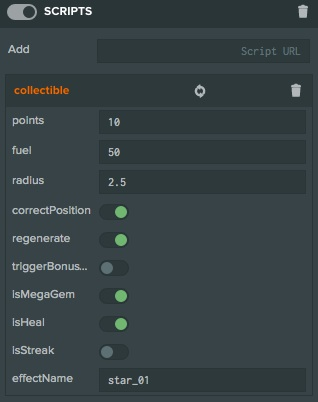
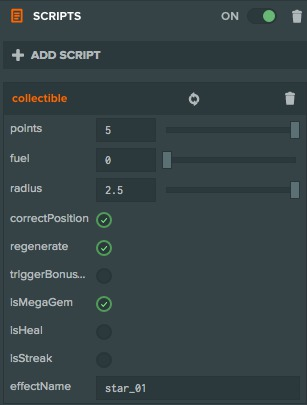
Changes for scripts

diff --git a/content/en/user-manual/packs/components/script.md b/content/en/user-manual/packs/components/script.md
@@ -6,9 +6,15 @@ position: 10
 
 The 'script' component enables an entity to run user-supplied scripts. In this way, the user can write script (using the JavaScript language) that runs when the entity is instantiated and updated on a per-frame basis.
 
-<img src="/images/user-manual/components/component-script.jpg" style="width: 300px" />
+<img src="/images/user-manual/components/component-script.jpg"/>
 
-To assign a script, type its name into the URL box. For example, if you want to create a script called car.js, type car.js into the box and hit ENTER. This will create a script block below. If you click the hyperlinked script name, it will open in the PlayCanvas Code Editor. If you type a name of an existing script, autocomplete should activate and again, just press ENTER to add the script to the component.
+To create a new script, click on the <span class="ui-icon" style="font-size: 18px">&#58468;</span> button in the Assets Panel and select New Script. Then type the name of the script in the popup and hit Enter.
+
+<img src="/images/user-manual/new_script.jpg"/>
+
+You can then drag the new script on a script component or you can click the Add Script button in the script component Inspector and then select it from the Assets Panel.
+
+To edit the script in the PlayCanvas Code Editor you can either click on the hyperlinked script name, or you can select the script from the Assets Panel and click Edit.
 
 ## Properties
 
